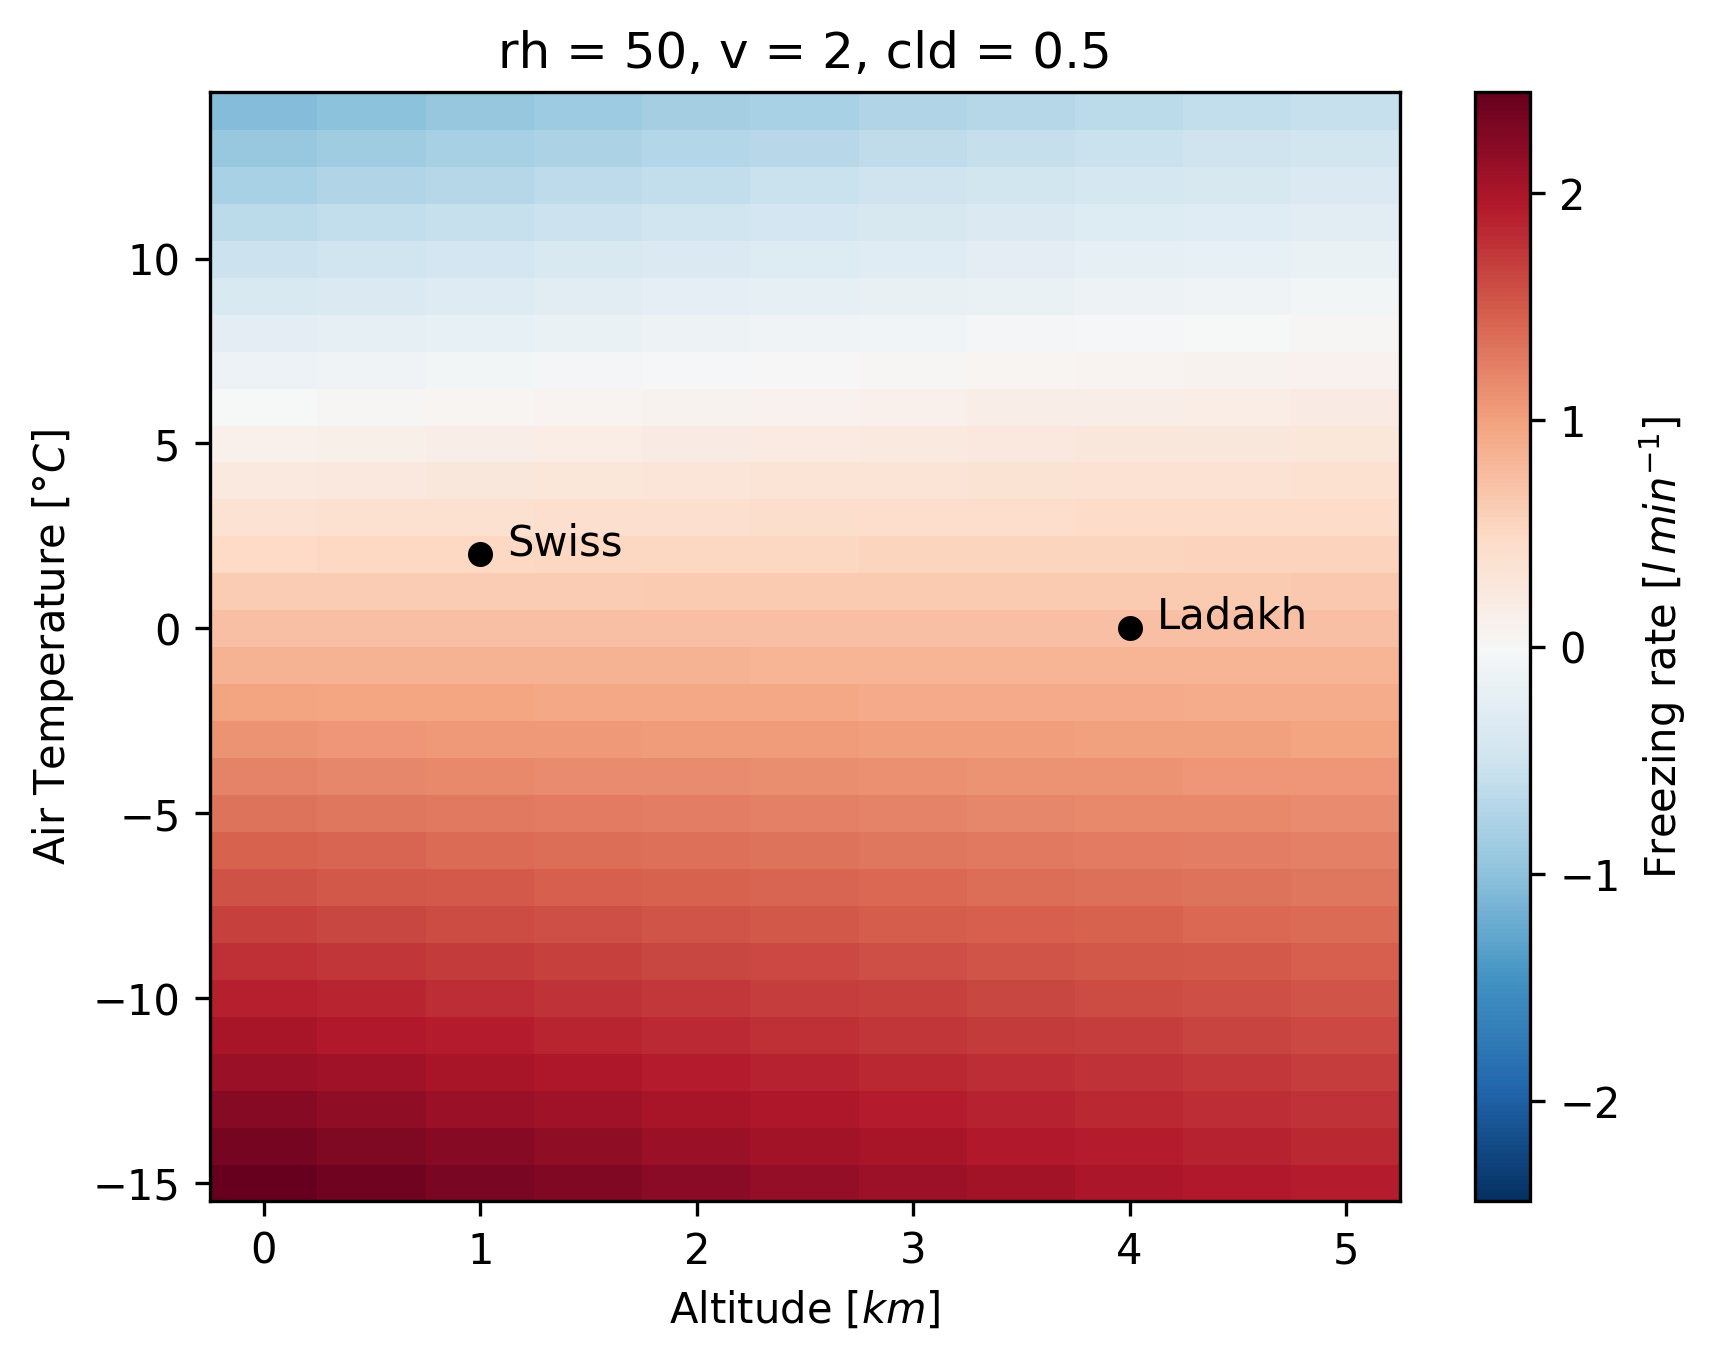
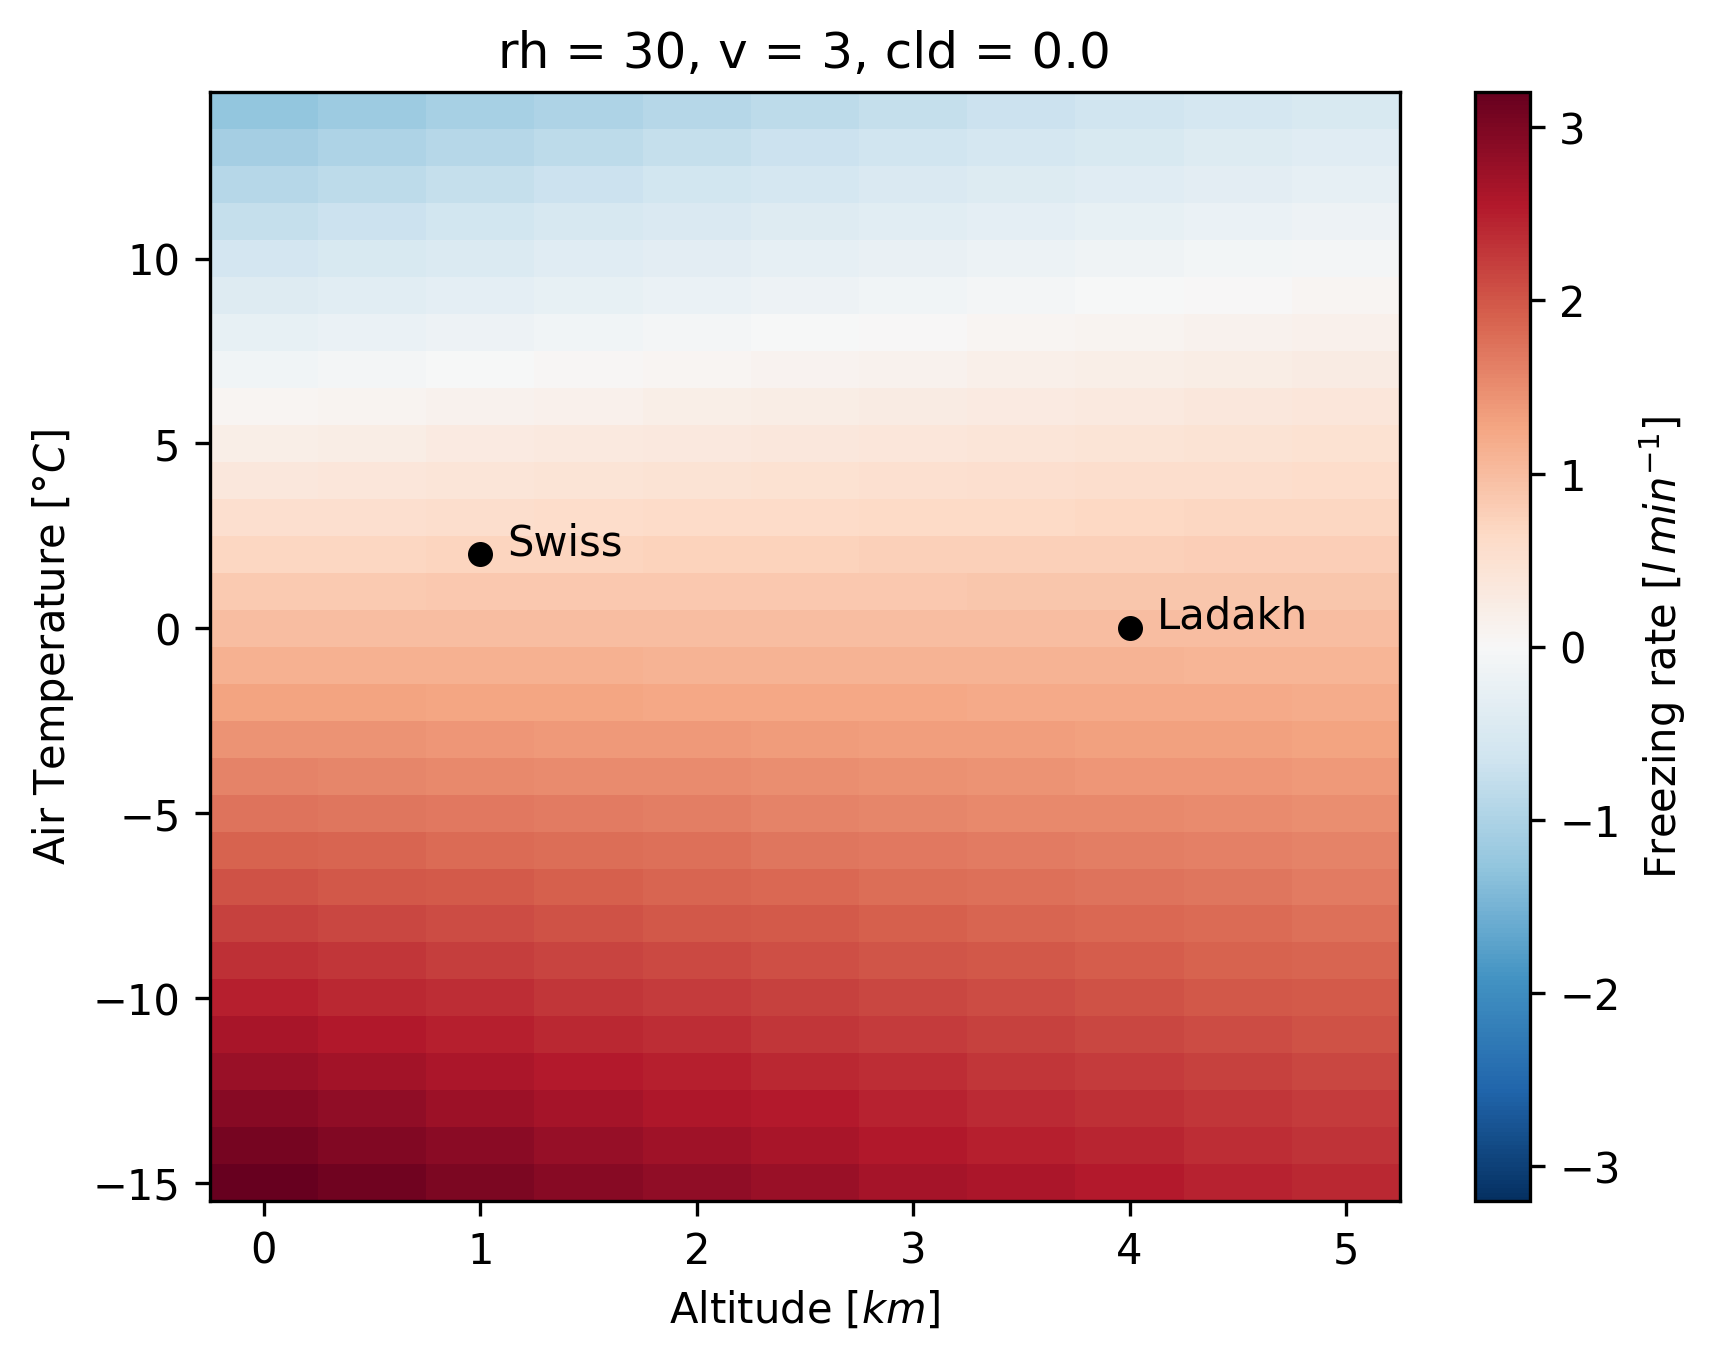
update auto eqns

diff --git a/src/plots/coeff_slopes.py b/src/plots/coeff_slopes.py
@@ -34,33 +34,34 @@ if __name__ == "__main__":
     opts = [opt for opt in sys.argv[1:] if opt.startswith("-")]
 
     if opts==[]:
-        opts = ["-nc"]
+        opts = ["-png"]
 
     if "-nc" in opts:
         logger.info("=> Calculation of coeffs")
 
-        temp = list(range(-15, 15))
+        temp = list(range(-20, 5))
         rh = list(range(0, 100, 10))
         v = list(range(0, 15, 1))
         alt = list(np.arange(0, 5.1, 0.5))
         cld = list(np.arange(0, 1.1, 0.5))
-        spray_r = 7
+        spray_r = list(np.arange(5, 10, 1))
 
         da = xr.DataArray(
-            data=np.zeros(len(temp) * len(rh) * len(v)* len(alt)* len(cld)).reshape(
-                len(temp), len(rh), len(v), len(alt), len(cld)
+            data=np.zeros(len(temp) * len(rh) * len(v)* len(alt) * len(cld) * len(spray_r)).reshape(
+                len(temp), len(rh), len(v), len(alt), len(cld), len(spray_r)
             ),
-            dims=["temp", "rh", "v", "alt", "cld"],
+            dims=["temp", "rh", "v", "alt", "cld", "spray_r"],
             coords=dict(
                 temp=temp,
                 rh=rh,
                 v=v,
                 alt=alt,
                 cld=cld,
+                spray_r=spray_r,
             ),
             attrs=dict(
                 long_name="Freezing rate",
-                description="Max. freezing rate",
+                description="Mean freezing rate",
                 units="$l\\, min^{-1}$",
             ),
         )
@@ -84,8 +85,9 @@ if __name__ == "__main__":
                 for v in da.v.values:
                     for alt in da.alt.values:
                         for cld in da.cld.values:
-                            da.sel(temp=temp, rh=rh, v=v, alt=alt, cld=cld).data += TempFreeze(temp, rh, v, alt, cld)
-                            da.sel(temp=temp, rh=rh, v=v, alt=alt, cld=cld).data *= math.pi * spray_r * spray_r
+                            for r in da.spray_r.values:
+                                da.sel(temp=temp, rh=rh, v=v, alt=alt, cld=cld, spray_r = r).data += TempFreeze(temp, rh, v, alt, cld)
+                                da.sel(temp=temp, rh=rh, v=v, alt=alt, cld=cld, spray_r = r).data *= math.pi * r * r
 
         da.to_netcdf("data/common/alt_sims.nc")
 
@@ -122,15 +124,30 @@ if __name__ == "__main__":
     if "-png" in opts:
         logger.info("=> Producing figs")
 
+        with open("data/common/alt_coeffs.json") as f:
+            param_values = json.load(f)
+        print(
+            "dis = %.5f * temp + %.5f * rh + %.5f * wind + %.5f * alt + %.5f * cld + %.5f "
+            % (
+                param_values['a'],
+                param_values["b"],
+                param_values["c"],
+                param_values["d"],
+                param_values["e"],
+                param_values["f"],
+            )
+        )
+
         da = xr.open_dataarray("data/common/alt_sims.nc")
+
         df_l = pd.DataFrame(dict(x=[4,1], y=[0, 2], text=['Ladakh', 'Swiss']))
         a = pd.concat({'x': df_l.x, 'y': df_l.y, 'text': df_l.text}, axis=1)
-        print(da)
 
         fig, ax = plt.subplots(1, 1)
         ax = df_l.set_index('x')['y'].plot(style='.', color='k', ms=10)
         for i, point in a.iterrows():
             print(i,point)
             ax.text(point['x']+0.125, point['y'], str(point['text']))
-        da.sel(rh=50, v=2,cld=0.5).plot()
+        da.sel(rh=30, v=3, cld =0 ).plot()
+        # ax.set_ylim([0,3])
         plt.savefig("data/figs/paper3/alt_temp.png", bbox_inches="tight", dpi=300)
